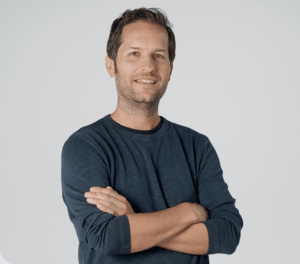
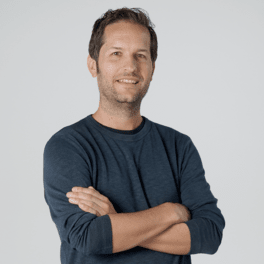
add pavel; square

diff --git a/book/about.md b/book/about.md
@@ -3,6 +3,9 @@ title: About the Authors
 next: Preface
 ...
 
+<div class="author-picture">
+  <img width=150 src="im/pavel-panchekha.jpg" alt="Picture of Pavel Panchekha">
+</div>
 [Pavel Panchekha](https://pavpanchekha.com) is a professor in the
 School of Computing at the University of Utah. His research focuses on
 web page layout and web browsers more generally. He received a Ph.D.
